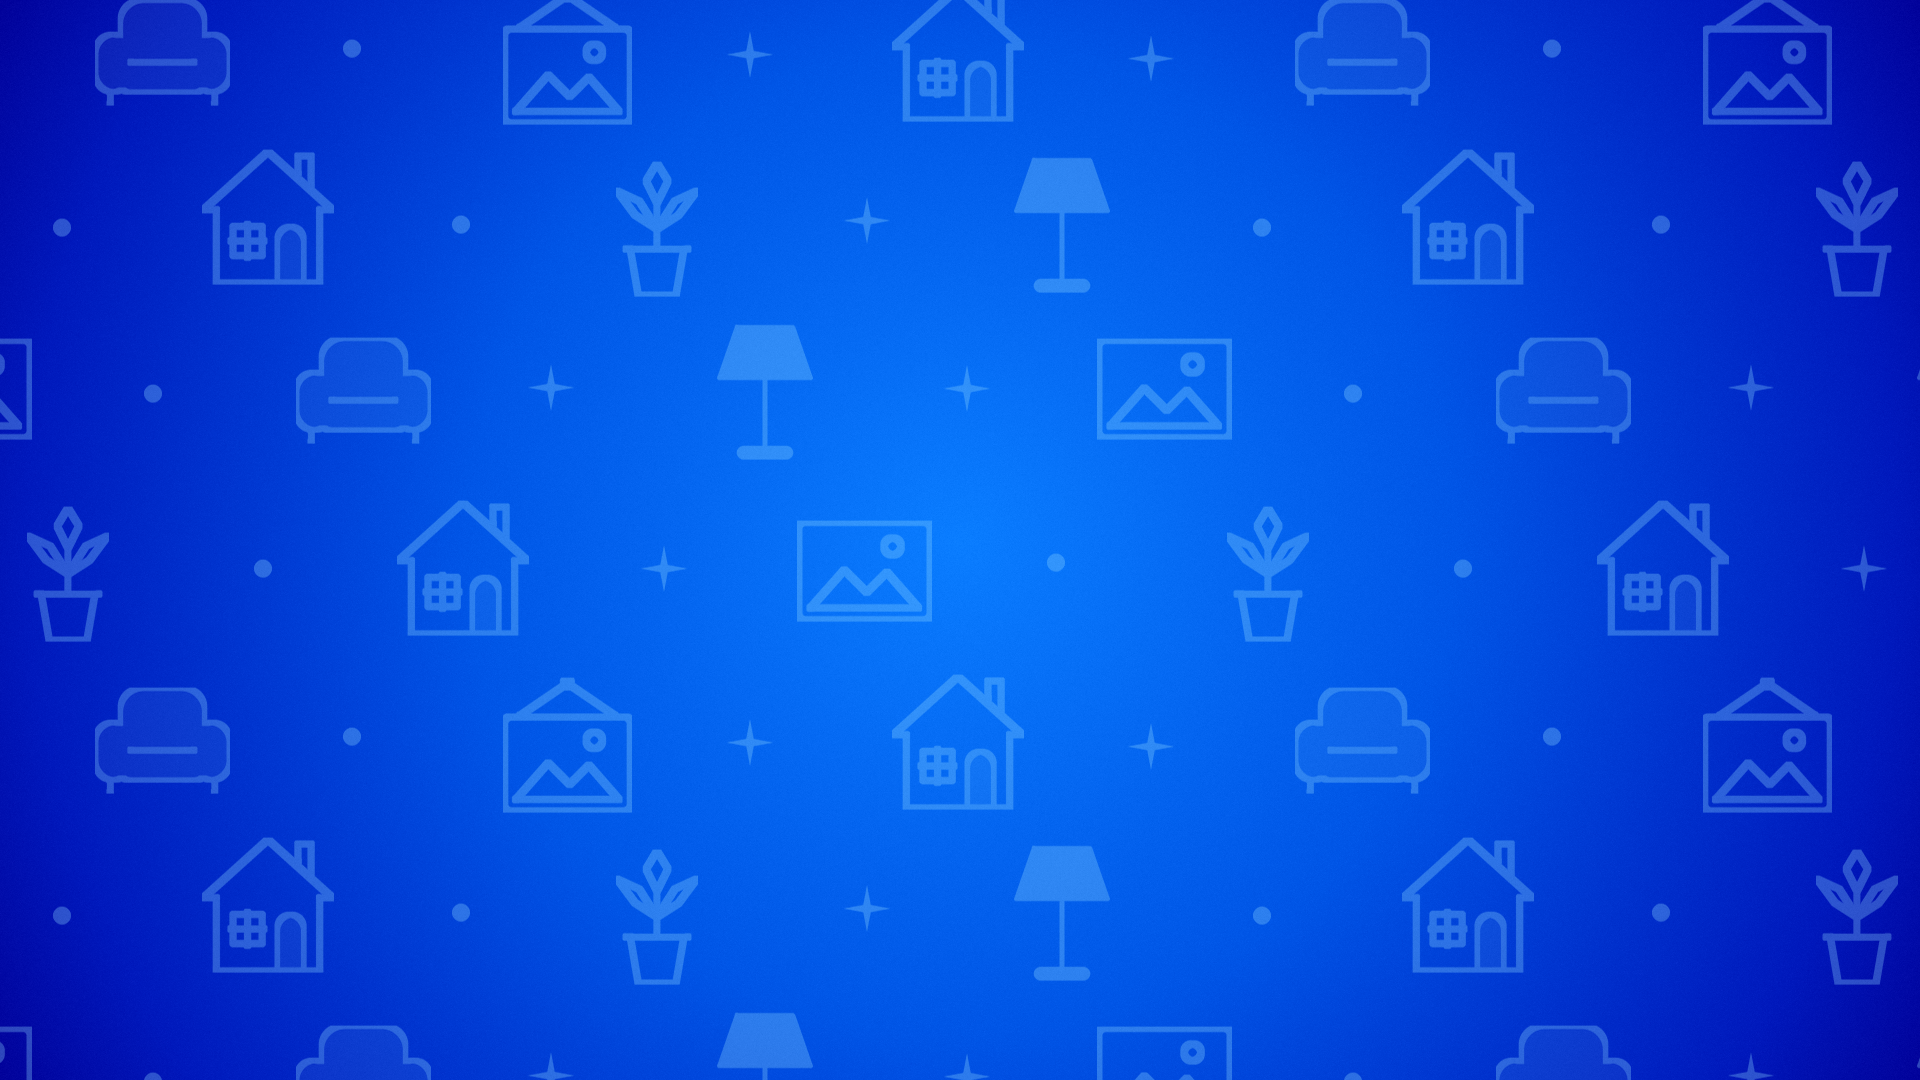
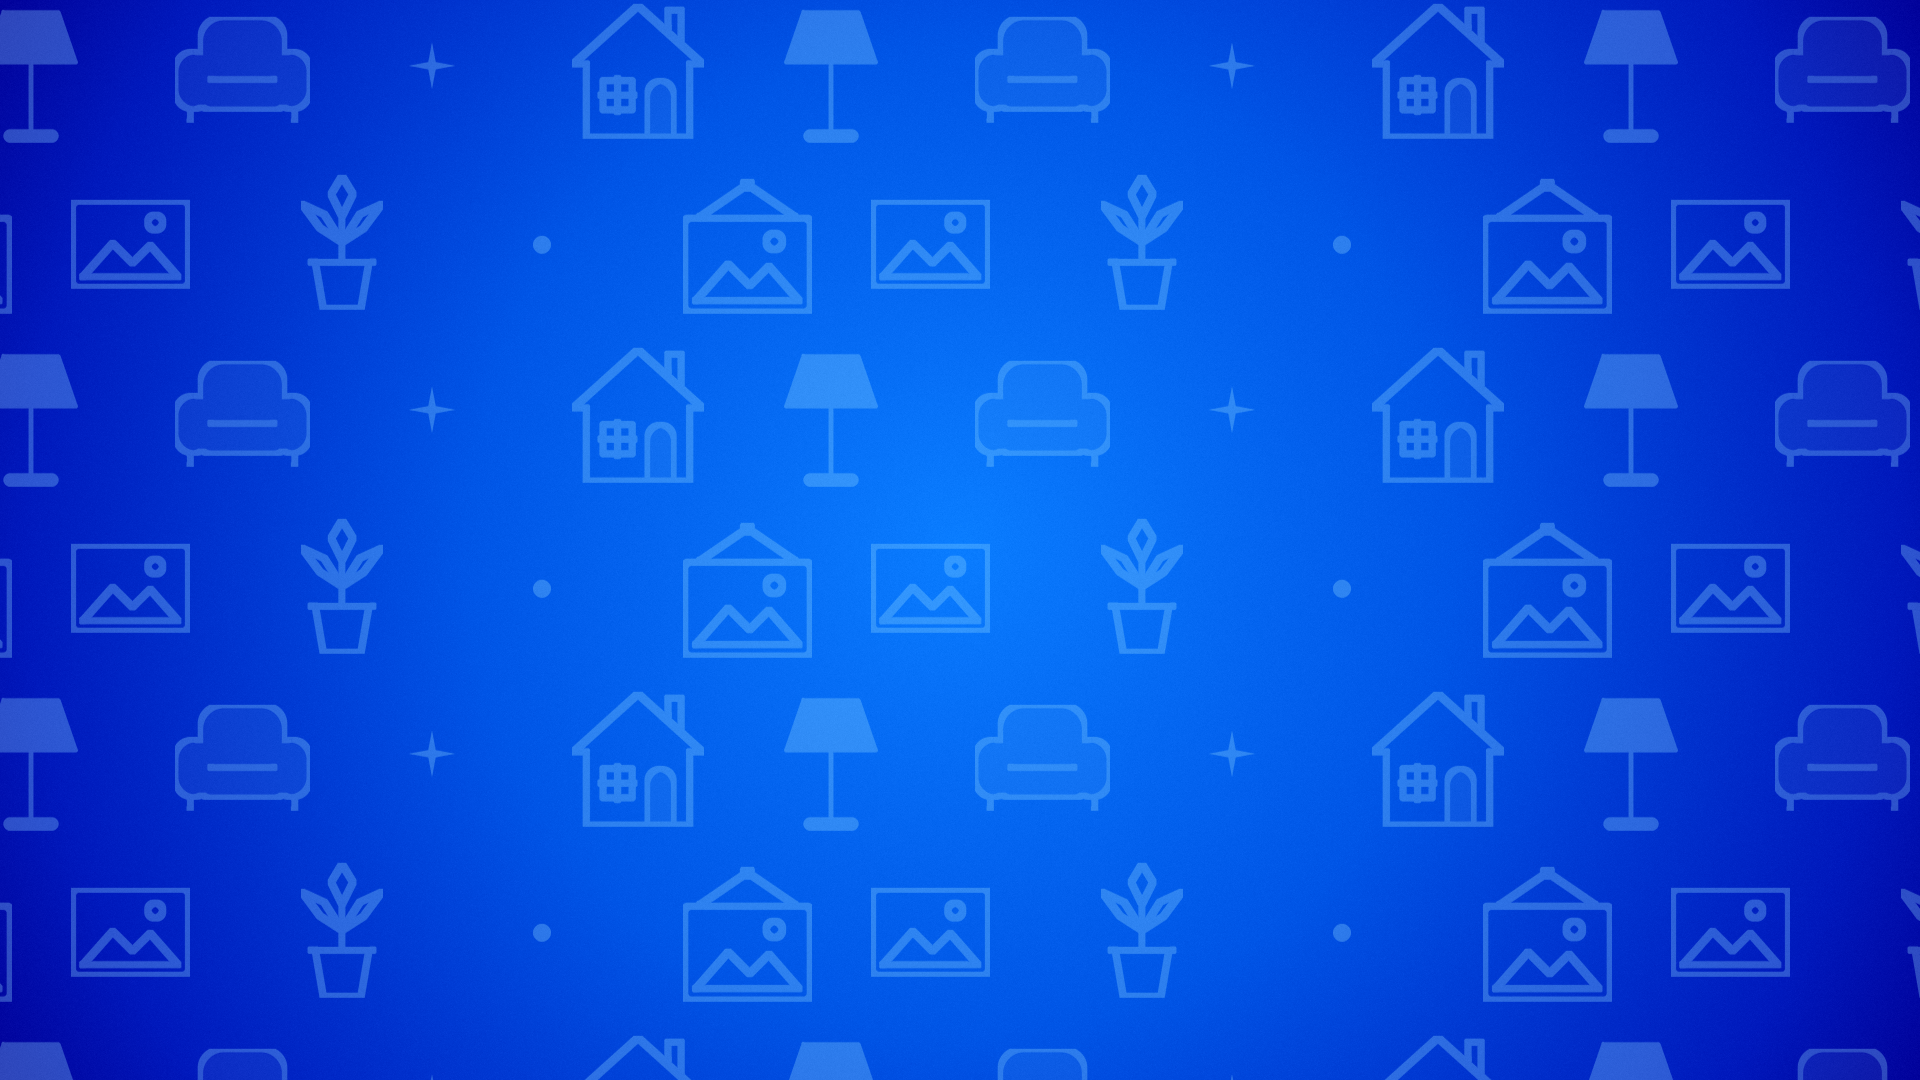
Dream Home: compact tile for slower scroll
Claude-Session: https://claude.ai/code/session_01G9HesfYtov2yJXkP5itKUg

diff --git a/render/render.py b/render/render.py
@@ -797,11 +797,12 @@ def pet_pals(t, P):
 HOME_OPACITY = 0.32
 def dream_home(t, P):
     ph = t / DUR; name = P.get("name"); D = doodles
-    tl = build_tile("home", [D.house, D.armchair, D.picture_hang, D.lamp, D.house, D.plant, D.picture, D.armchair, D.lamp, D.plant, D.house, D.picture],
-                    [D.sparkle4, D.dot, D.sparkle4, D.dot, D.dot, D.sparkle4],
-                    big_size=135, small_size=46, rot=0, seed=18,
+    # compact 4 x 2 tile -> shorter repeat distance -> slower scroll (~41 px/s) while still seamless
+    tl = build_tile("home2", [D.house, D.armchair, D.picture_hang, D.plant],
+                    [D.lamp, D.sparkle4, D.picture, D.dot],
+                    cols=4, rows=2, big_size=135, small_size=46, rot=0, seed=18,
                     fill_icons=(D.lamp, D.sparkle4, D.dot, D.armchair, D.house),
-                    size_scale={D.dot: 0.4, D.lamp: 1.0}, stroke=7.0, no_dilate=(D.dot, D.sparkle4, D.lamp))
+                    size_scale={D.dot: 0.4, D.lamp: 2.9, D.picture: 2.6}, stroke=7.0, no_dilate=(D.dot, D.sparkle4, D.lamp))
     img = stops_radial(FRAME_STOPS.get(name, QUIZ_STOPS.get(name, DOODLE_STOPS.get(name, PURPLE_REF))), ph)
     line_col = np.float32([1, 1, 1]) * 0.45 + (hexc(FRAME_LINE[name]) if name in FRAME_LINE else P["accent"]) * 0.55
     ln, gl = scroll_tile_layer(tl, ph, name)
